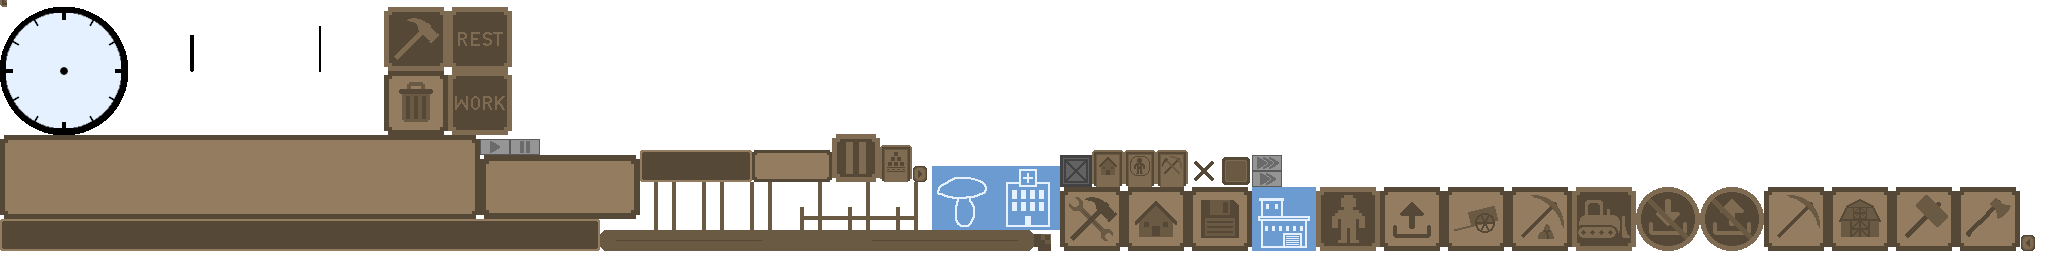
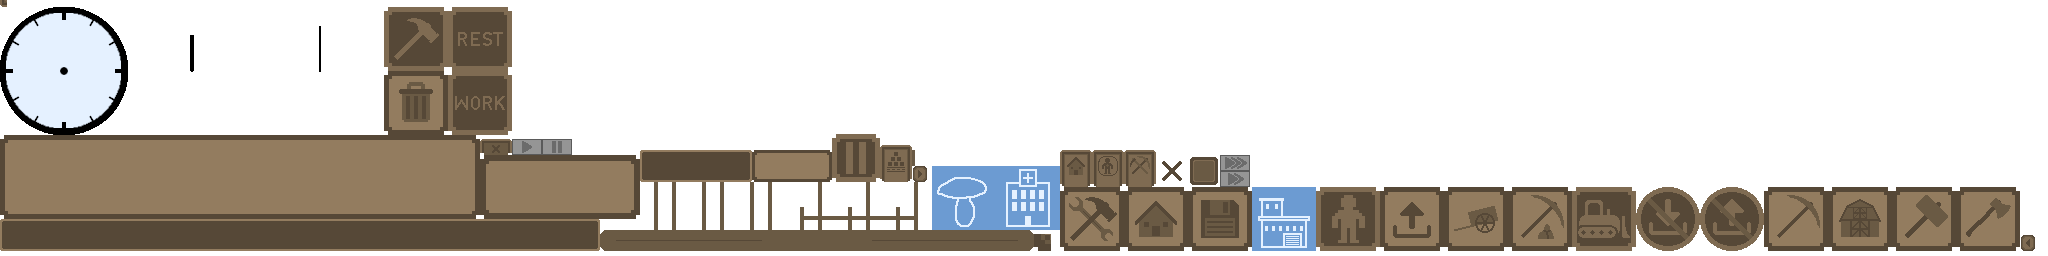
StatWindow update

Changed region(s): [[0.5, 0.5625, 0.625, 0.75], [0.2188, 0.5312, 0.2812, 0.625]]

diff --git a/core/src/com/boxhead/builder/ui/BuildingStatWindow.java b/core/src/com/boxhead/builder/ui/BuildingStatWindow.java
@@ -6,15 +6,8 @@ import com.badlogic.gdx.math.Vector3;
 import com.boxhead.builder.*;
 import com.boxhead.builder.game_objects.*;
 
-import java.util.HashSet;
-import java.util.Set;
-
 public class BuildingStatWindow extends StatWindow<Building> {
-    private Job job;
-    private Service service;
-    private int npcCapacity;
-    protected Set<Villager> villagers = new HashSet<>();
-    private int guestsInside, guestCapacity;
+    private int counterWidth = 0;
     String warning = "";
 
     public BuildingStatWindow(UI.Layer layer) {
@@ -26,13 +19,15 @@ public class BuildingStatWindow extends StatWindow<Building> {
         super.draw(batch);
 
         UI.FONT.setColor(Color.RED);
-        UI.FONT.draw(batch, warning, getGlobalPosition().x + leftPadding, getGlobalPosition().y + getWindowHeight() - verticalPadding);
+        UI.FONT.draw(batch, warning, getGlobalPosition().x + UI.PADDING, getGlobalPosition().y + getWindowHeight() - UI.PADDING);
         UI.FONT.setColor(Color.WHITE);
-        UI.FONT.draw(batch, stats, getGlobalPosition().x + leftPadding, getGlobalPosition().y + getWindowHeight() - verticalPadding - (warning.equals("") ? 0 : UI.FONT.getXHeight() + verticalPadding));
+        UI.FONT.draw(batch, stats, getGlobalPosition().x + UI.PADDING, getGlobalPosition().y + getWindowHeight() - UI.PADDING - (warning.equals("") ? 0 : UI.FONT.getXHeight() + UI.PADDING));
 
-        if(pinnedObject instanceof ProductionBuilding || pinnedObject instanceof ResidentialBuilding) {
-            drawNPCCounter(batch);
-        }
+        if(pinnedObject instanceof ProductionBuilding)
+            drawEmployeeCounter(batch, ((ProductionBuilding) pinnedObject));
+
+        if (pinnedObject instanceof ResidentialBuilding)
+            drawResidentCounter(batch, ((ResidentialBuilding) pinnedObject));
     }
 
     @Override
@@ -43,15 +38,11 @@ public class BuildingStatWindow extends StatWindow<Building> {
             stats += "\nID: " + pinnedObject.getId();
         }
 
-        if (pinnedObject instanceof ResidentialBuilding building) {
+        if (pinnedObject instanceof ResidentialBuilding) {
             warning = "";
-            npcCapacity = building.getResidentCapacity();
-            villagers = building.getResidents();
         }
         else if (pinnedObject instanceof ProductionBuilding building) {
-            npcCapacity = building.getType().workerCapacity;
-            villagers = building.getEmployees();
-            job = building.getJob();
+            Job job = building.getJob();
 
             if (building.getInventory().checkStorageAvailability(job.getRecipe(building)) == Inventory.Availability.OUTPUT_FULL) warning = "inventory full\n";
             else if (building.getInventory().checkStorageAvailability(job.getRecipe(building)) == Inventory.Availability.LACKS_INPUT) warning = "not enough resources\n";
@@ -100,11 +91,10 @@ public class BuildingStatWindow extends StatWindow<Building> {
         super.updateWindowSize();
         if(!warning.equals("")) {
             setContentHeight(getContentHeight() + 20);
-            setContentWidth(warning.length() * 7 + leftPadding + rightPadding);
+            setContentWidth(warning.length() * 7 + UI.PADDING + UI.PADDING);
         }
         if(pinnedObject instanceof ProductionBuilding || pinnedObject instanceof ResidentialBuilding) {
-            setContentHeight(getContentHeight() + Villager.TEXTURE_SIZE + verticalPadding);
-            int counterWidth = leftPadding + (Villager.TEXTURE_SIZE + leftPadding) * npcCapacity;
+            setContentHeight(getContentHeight() + Villager.TEXTURE_SIZE + UI.PADDING);
             if(getContentWidth() < counterWidth)
                 setContentWidth(counterWidth);
         }
@@ -122,19 +112,53 @@ public class BuildingStatWindow extends StatWindow<Building> {
         if(pinnedObject instanceof ProductionBuilding building) building.showRangeVisualiser(visible);
     }
 
-    private void drawNPCCounter(SpriteBatch batch) {
-        int i = 0;
-        for (Villager villager : villagers) {
-            if (villager.getCurrentBuilding() == pinnedObject)
-                batch.draw(villager.getTexture(),
-                        getGlobalPosition().x + leftPadding + (Villager.TEXTURE_SIZE + leftPadding) * i++,
-                        getGlobalPosition().y + verticalPadding);
+    private void drawEmployeeCounter(SpriteBatch batch, ProductionBuilding building) {
+        int x = 0;
+        for (int i = 0; i < 3; i++) {
+            for (Villager employee : building.getShift(i).getEmployees()) {
+                if (!building.getType().getShiftActivity(i))
+                    continue;
+
+                batch.draw(employee.getTexture(),
+                        getGlobalPosition().x + UI.PADDING + x,
+                        getGlobalPosition().y + UI.PADDING);
+
+                x += Villager.TEXTURE_SIZE + 5;
+            }
+
+            batch.setColor(Color.BLACK);
+            for (int j = 0; j < building.getShift(i).getMaxEmployees() - building.getShift(i).getEmployees().size(); j++) {
+                batch.draw(Textures.get(Textures.Npc.IDLE0),
+                        getGlobalPosition().x + UI.PADDING + x,
+                        getGlobalPosition().y + UI.PADDING);
+
+                x += Villager.TEXTURE_SIZE + 5;
+            }
+            batch.setColor(UI.DEFAULT_COLOR);
+
+            if (i < 2)
+                batch.draw(Textures.get(Textures.Ui.SHIFT_DIVIDER),
+                        getGlobalPosition().x + UI.PADDING + x,
+                        getGlobalPosition().y + UI.PADDING);
+                x += 8;
+        }
+        counterWidth = x;
+    }
+
+    private void drawResidentCounter(SpriteBatch batch, ResidentialBuilding building) {
+        int x = 0;
+        for (Villager villager : building.getResidents()) {
+            batch.draw(villager.getTexture(),
+                    getGlobalPosition().x + UI.PADDING + x,
+                    getGlobalPosition().y + UI.PADDING);
+            x += Villager.TEXTURE_SIZE + 5;
         }
         batch.setColor(Color.BLACK);
-        while (i < npcCapacity) {
+        for (int i = 0; i < building.getResidentCapacity() - building.getResidents().size(); i++) {
             batch.draw(Textures.get(Textures.Npc.IDLE0),
-                    getGlobalPosition().x + leftPadding + (Villager.TEXTURE_SIZE + leftPadding) * i++,
-                    getGlobalPosition().y + verticalPadding);
+                    getGlobalPosition().x + UI.PADDING + x,
+                    getGlobalPosition().y + UI.PADDING);
+            x += Villager.TEXTURE_SIZE + 5;
         }
         batch.setColor(UI.DEFAULT_COLOR);
     }

diff --git a/core/src/com/boxhead/builder/ui/NPCStatWindow.java b/core/src/com/boxhead/builder/ui/NPCStatWindow.java
@@ -6,7 +6,6 @@ import com.boxhead.builder.*;
 import com.boxhead.builder.game_objects.Villager;
 
 public class NPCStatWindow extends StatWindow<Villager> {
-    private String job = null, name = null;
     private final int IMAGE_SCALE = 4;
 
     public NPCStatWindow(UI.Layer layer) {
@@ -18,12 +17,12 @@ public class NPCStatWindow extends StatWindow<Villager> {
         super.draw(batch);
 
         batch.draw(pinnedObject.getTexture(),
-                getGlobalPosition().x + leftPadding,
+                getGlobalPosition().x + UI.PADDING,
                 getGlobalPosition().y + getContentHeight() - Villager.TEXTURE_SIZE * IMAGE_SCALE,
                 Villager.TEXTURE_SIZE * IMAGE_SCALE,
                 Villager.TEXTURE_SIZE * IMAGE_SCALE);
-        UI.FONT.draw(batch, stats, getGlobalPosition().x + leftPadding,
-                getGlobalPosition().y + getContentHeight() - verticalPadding * 2 - Villager.TEXTURE_SIZE * IMAGE_SCALE);
+        UI.FONT.draw(batch, stats, getGlobalPosition().x + UI.PADDING,
+                getGlobalPosition().y + getContentHeight() - UI.PADDING * 2 - Villager.TEXTURE_SIZE * IMAGE_SCALE);
     }
 
     @Override
@@ -34,8 +33,8 @@ public class NPCStatWindow extends StatWindow<Villager> {
 
     @Override
     protected void updateStats() {
-        name = pinnedObject.getName() + " " + pinnedObject.getSurname();
-        job = pinnedObject.getJob().toString();
+        String name = pinnedObject.getName() + " " + pinnedObject.getSurname();
+        String job = pinnedObject.getJob().toString();
 
         stats = "";
 
@@ -55,6 +54,6 @@ public class NPCStatWindow extends StatWindow<Villager> {
     @Override
     protected void updateWindowSize() {
         super.updateWindowSize();
-        setContentHeight(getContentHeight() + verticalPadding + Villager.TEXTURE_SIZE * IMAGE_SCALE + 20);
+        setContentHeight(getContentHeight() + UI.PADDING + Villager.TEXTURE_SIZE * IMAGE_SCALE + 20);
     }
 }

diff --git a/core/src/com/boxhead/builder/ui/DraggableWindow.java b/core/src/com/boxhead/builder/ui/DraggableWindow.java
@@ -60,11 +60,35 @@ public class DraggableWindow extends Window implements Clickable {
     }
 
     @Override
-    public void draw(SpriteBatch batch) {
-        int closeButtonX = getWindowWidth() - closeButton.getTexture().getRegionWidth();
-        int closeButtonY = getWindowHeight() - closeButton.getTexture().getRegionHeight();
-        closeButton.setLocalPosition(closeButtonX, closeButtonY);
-        super.draw(batch);
+    public void setWindowWidth(int width) {
+        super.setWindowWidth(width);
+        closeButton.setLocalPosition(
+                getWindowWidth() - 40,
+                closeButton.getLocalPosition().y);
+    }
+
+    @Override
+    public void setWindowHeight(int height) {
+        super.setWindowHeight(height);
+        closeButton.setLocalPosition(
+                closeButton.getLocalPosition().x,
+                getWindowHeight() - 4);
+    }
+
+    @Override
+    public void setContentWidth(int width) {
+        super.setContentWidth(width);
+        closeButton.setLocalPosition(
+                getWindowWidth() - 40,
+                closeButton.getLocalPosition().y);
+    }
+
+    @Override
+    public void setContentHeight(int height) {
+        super.setContentHeight(height);
+        closeButton.setLocalPosition(
+                closeButton.getLocalPosition().x,
+                getWindowHeight() - 4);
     }
 
     @Override

diff --git a/core/src/com/boxhead/builder/ui/StatWindow.java b/core/src/com/boxhead/builder/ui/StatWindow.java
@@ -12,7 +12,6 @@ import com.boxhead.builder.utils.Range;
 public abstract class StatWindow<T extends GameObject> extends DraggableWindow {
     protected T pinnedObject = null;
     protected boolean pinned;
-    protected static final int verticalPadding = 10, leftPadding = 10, rightPadding = 25;
     protected String stats = "";
 
     public StatWindow(UI.Layer layer) {
@@ -40,12 +39,12 @@ public abstract class StatWindow<T extends GameObject> extends DraggableWindow {
     protected abstract void updateStats();
 
     protected void updateWindowSize() {
-        setContentHeight(2*verticalPadding);
+        setContentHeight(2* UI.PADDING);
         for(char c : stats.toCharArray()) {
             if (c == '\n') setContentHeight(getContentHeight() + (int)UI.FONT.getXHeight() + 10);
         }
 
-        setContentWidth((int)(getLongestLineLength(stats) * UI.FONT.getSpaceXadvance() + leftPadding + rightPadding));
+        setContentWidth((int)(getLongestLineLength(stats) * UI.FONT.getSpaceXadvance() + UI.PADDING + UI.PADDING));
     }
 
     protected void updatePosition() {

diff --git a/core/src/com/boxhead/builder/game_objects/ProductionBuilding.java b/core/src/com/boxhead/builder/game_objects/ProductionBuilding.java
@@ -225,10 +225,6 @@ public class ProductionBuilding extends StorageBuilding {
         }
     }
 
-    public boolean isShiftEnabled(int index) {
-        return shifts[index].maxEmployees > 0;
-    }
-
     public static class Shift {
         Job job;
         Job.ShiftTime shiftTime;
@@ -240,6 +236,14 @@ public class ProductionBuilding extends StorageBuilding {
             this.shiftTime = shiftTime;
             this.maxEmployees = maxEmployees;
             employees = new HashSet<>(maxEmployees);
+        }
+
+        public Set<Villager> getEmployees() {
+            return employees;
+        }
+
+        public int getMaxEmployees() {
+            return maxEmployees;
         }
     }
 
@@ -257,6 +261,13 @@ public class ProductionBuilding extends StorageBuilding {
                 return shift;
         }
         return null;
+    }
+
+    public Shift getShift(int index) {
+        if (index >= shifts.length)
+            throw new IllegalStateException();
+
+        return shifts[index];
     }
 
     public float getEfficiency() {

diff --git a/core/src/com/boxhead/builder/ui/UI.java b/core/src/com/boxhead/builder/ui/UI.java
@@ -860,7 +860,10 @@ public class UI {
             window = new Window(Textures.get(Textures.Ui.WINDOW), this, layer, Vector2i.zero(), true);
             window.setContentWidth((window.getEdgeWidth() + PADDING) * 2 + NAME_WIDTH + COLUMN_WIDTH * 3);
 
-            types = Arrays.stream(Buildings.Type.values()).filter(Buildings.Type::isProduction).toArray(Buildings.Type[]::new);
+            types = Arrays.stream(Buildings.Type.values())
+                    .filter(Buildings.Type::isProduction)
+                    .sorted(Comparator.comparing(t -> t.name))
+                    .toArray(Buildings.Type[]::new);
 
             textAreas = new TextArea[types.length];
             timeLabels = new TextArea[6];

diff --git a/core/src/com/boxhead/builder/game_objects/FarmAnimal.java b/core/src/com/boxhead/builder/game_objects/FarmAnimal.java
@@ -79,6 +79,7 @@ public class FarmAnimal extends Animal implements FieldWork {
                         respawnDate = World.calculateDate(type.growthTime / 3);
                         dead = true;
                         gridPosition.set(pen.getGridPosition());
+                        spritePosition.set(pen.getGridPosition().x, pen.getGridPosition().y);
                     }
                     exit();
                 }

diff --git a/core/src/com/boxhead/builder/game_objects/Buildings.java b/core/src/com/boxhead/builder/game_objects/Buildings.java
@@ -66,7 +66,7 @@ public class Buildings {
                 new Recipe(Pair.of(Resource.WOOD, 20)),
                 new BoxCollider(0, 0, 4, 2),
                 Jobs.BUILDER,
-                5
+                3
         ),
         TRANSPORT_OFFICE(
                 Textures.Building.CARRIAGE_HOUSE,

diff --git a/core/src/com/boxhead/builder/Textures.java b/core/src/com/boxhead/builder/Textures.java
@@ -141,6 +141,7 @@ public class Textures {
         CLOCK_FACE, HOUR_HAND, MINUTE_HAND, PAUSE, PLAY, X2SPEED, X3SPEED,
         FULL_OUTPUT, NO_INPUT,
         TIMELINE_SEGMENT, TIMELINE_TOP,
+        SHIFT_DIVIDER,
 
         SERVICE, CONSTRUCTION_OFFICE,
         WINDOW, MENU_WINDOW, WIDE_AREA,
